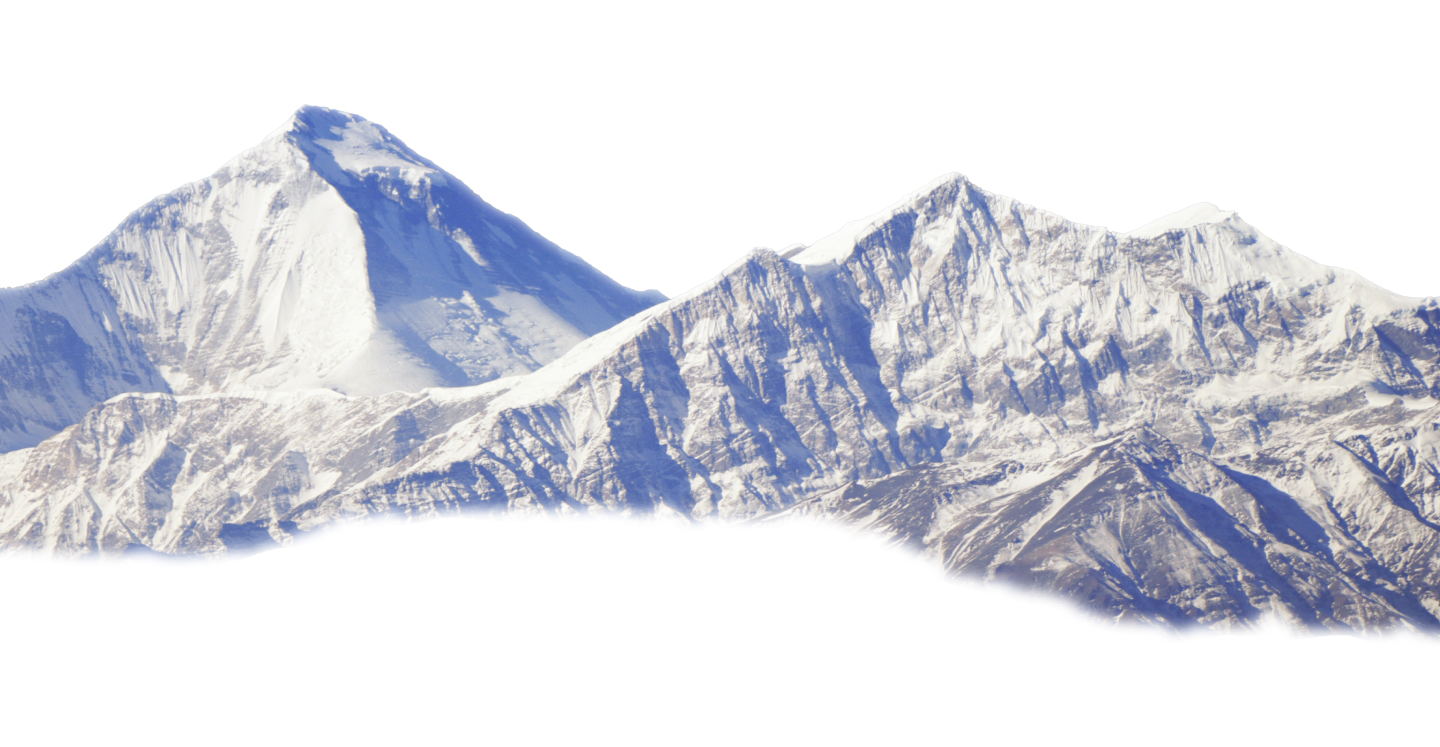
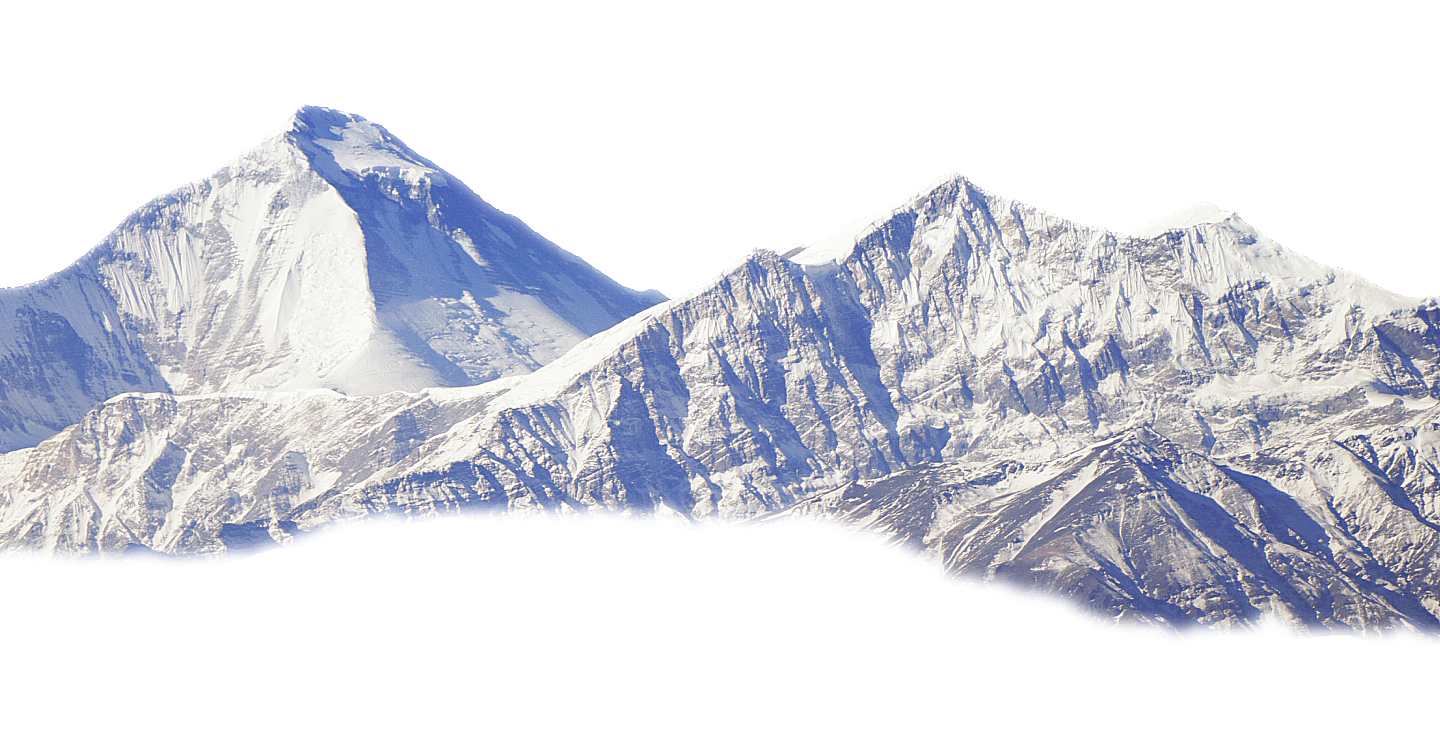
[refactoring] header parallax

diff --git a/src/components/Header.jsx b/src/components/Header.jsx
@@ -18,12 +18,9 @@ export const Header = () => {
         <NavBar />
         <div className="w-full h-full absolute flex justify-center">
           <div className="max-w-5xl relative">
-            {/* <div className="bg-[#f1f1f1] w-full h-36 absolute left-0 bottom-0 z-20"></div> */}
-            {/* <div className="bg-[#f1f1f1] w-full h-32 absolute left-0 bottom-0 z-20"></div> */}
-
-            <h3 className="bott font-bold text-4xl md:text-6xl text-center text-shadow text-white sticky top-44 z-10">
+            <h3 className="bott font-bold text-4xl md:text-6xl text-center text-shadow text-white sticky top-40 z-30">
               Designing your home from the North Pole for
-              <span className=" text-red-500"> Xmas</span>
+              <span className=" text-red-500 "> Xmas</span>
             </h3>
           </div>
         </div>
@@ -32,7 +29,6 @@ export const Header = () => {
         <BannerSnow styles="w-full h-3/6 absolute bottom-0" />
         <BannerSnow styles="w-full h-3/6 absolute -bottom-[250px] z-50" />
         <BannerHome />
-
         {/* <BannerSanta /> */}
 
         <MouseParallaxContainer
@@ -49,16 +45,28 @@ export const Header = () => {
         >
           <MouseParallaxChild
             factorX={0.5}
-            factorY={0}
+            factorY={0.5}
+            className="w-[140%] md:w-[70%]"
             style={{
-              width: "140%",
-
-              height: "120%",
-              //   maxHeight: "500px",
+              height: "70%",
               position: "absolute",
               left: "-20%",
-              bottom: "-150px",
+              bottom: "105px",
               zIndex: "0",
+            }}
+          >
+            <BannerMountainOne />
+          </MouseParallaxChild>
+          <MouseParallaxChild
+            factorX={0.5}
+            factorY={0.5}
+            className="w-[140%] md:w-[70%]"
+            style={{
+              height: "70%",
+              position: "absolute",
+              left: "50%",
+              bottom: "100px",
+              zIndex: "",
             }}
           >
             <BannerMountainOne />
@@ -67,45 +75,32 @@ export const Header = () => {
           <MouseParallaxChild
             factorX={0.3}
             factorY={0}
-            // className="-left-[50%] w-[280%] lg:w-[140%] lg:-left-[20%]"
+            className="w-[180%] md:w-[100%] -left-[80%] md:-left-[20%]"
             style={{
-              width: "140%",
-
               height: "100%",
               position: "absolute",
-              left: "-20%",
-              bottom: "-200px", // estable
-              //   bottom: "-160px",
-              zIndex: "20",
+              bottom: "-180px",
+              zIndex: "10",
             }}
           >
             <BannerMountainTwo />
           </MouseParallaxChild>
 
           <MouseParallaxChild
-            factorX={0.1}
-            factorY={0}
-            className="-left-36 w-[180%] lg:w-[140%] lg:-left-96"
+            factorX={0.3}
+            factorY={0.3}
+            className="w-[180%] md:w-[120%] -left-48 md:-left-[10%]"
             style={{
-              //   width: "140%",
-
               height: "100%",
               position: "absolute",
-              //   rotate: "260deg",
-              //   left: "-300px",
-              bottom: "-400px", // estable
-              //   bottom: "-160px",
-              zIndex: "20",
+              bottom: "-200px",
+              zIndex: "30",
             }}
           >
-            <BannerMountainTwo />
+            <BannerMountainOne />
           </MouseParallaxChild>
         </MouseParallaxContainer>
       </header>
-
-      {/* <div className="w-full h-screen">
-        <BannerTrees />
-      </div> */}
     </>
   );
 };

diff --git a/src/components/BannerSanta.jsx b/src/components/BannerSanta.jsx
@@ -1,6 +1,6 @@
 export const BannerSanta = () => {
   return (
-    <div className="max-w-3xl w-full absolute top-40 -left-3 z-10 px-5">
+    <div className="max-w-3xl w-full absolute top-60 -left-50 z-40 px-5">
       <img
         className="w-full h-full object-cover"
         src="./imgs/santa-claus.svg"

diff --git a/src/components/BannerMountainOne.jsx b/src/components/BannerMountainOne.jsx
@@ -2,7 +2,7 @@ export const BannerMountainOne = () => {
   return (
     <div className="w-full h-full relative bottom-0 top-5">
       <img
-        className="w-full h-full object-cover"
+        className="w-full h-full"
         src="./imgs/mountain1.png"
         alt="banner sky"
       />
